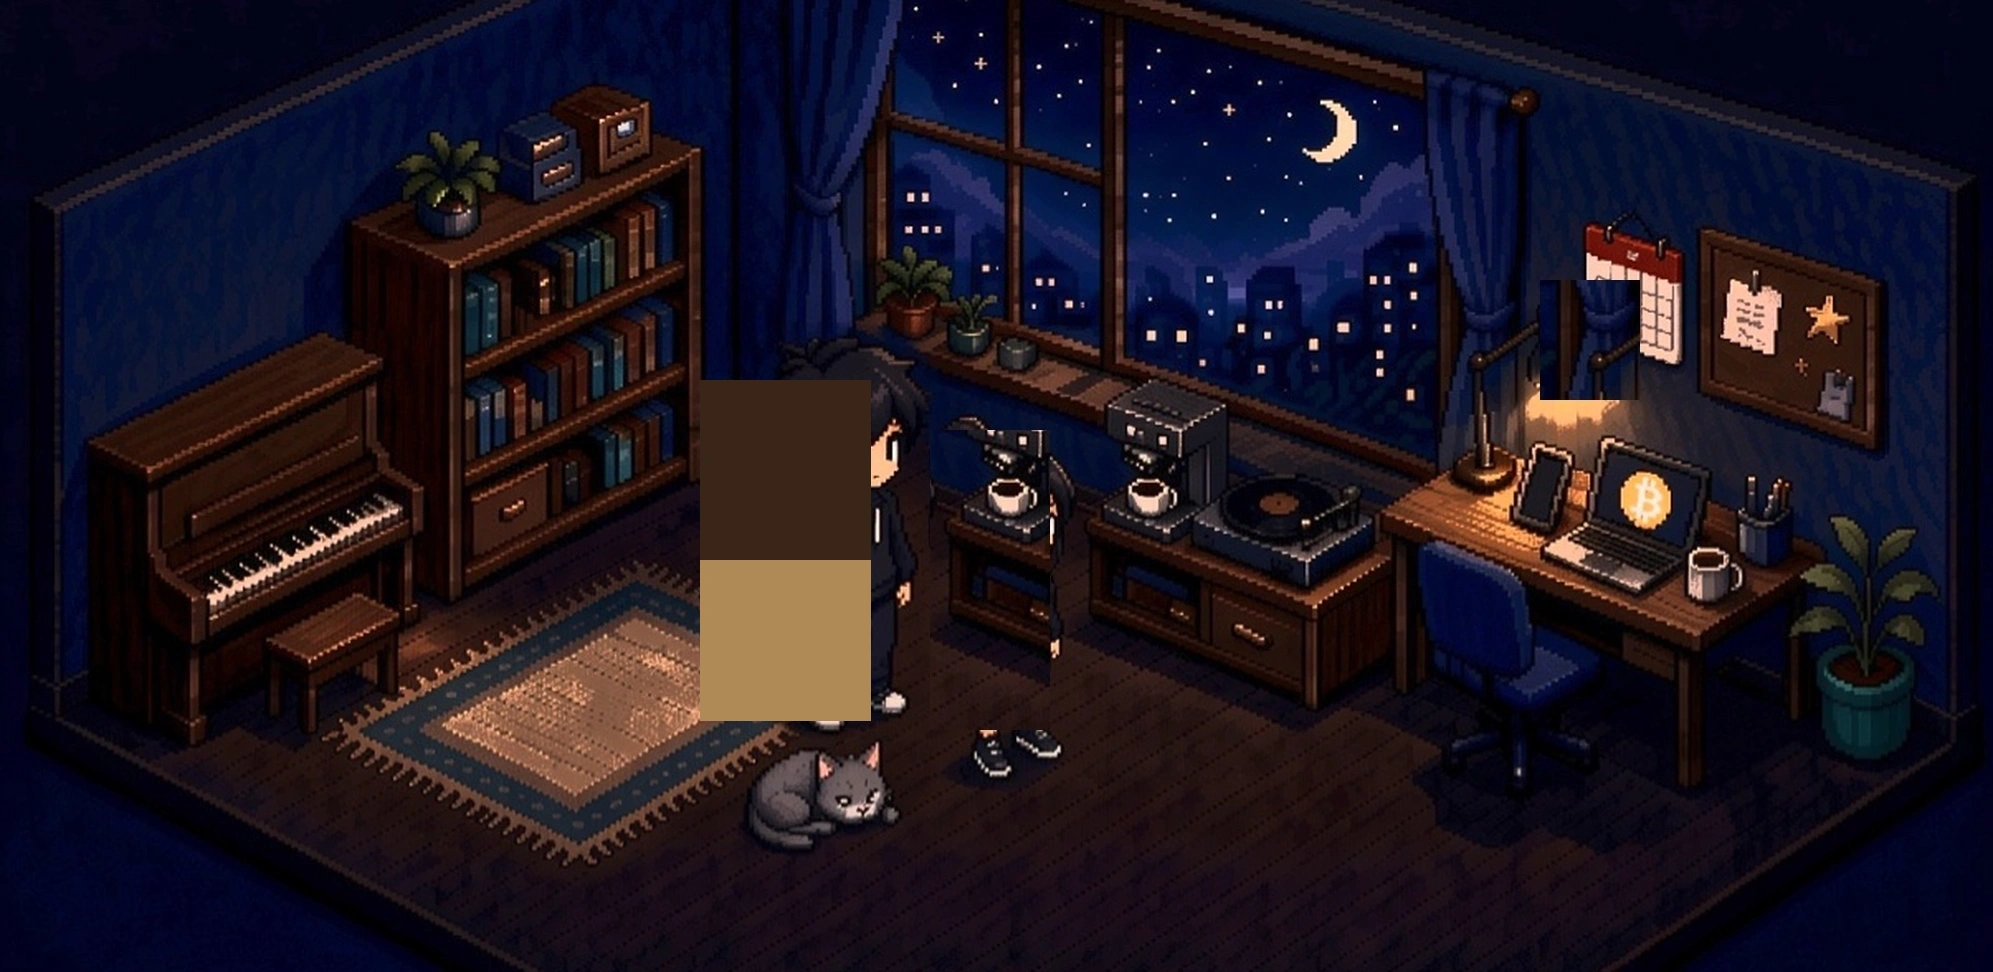
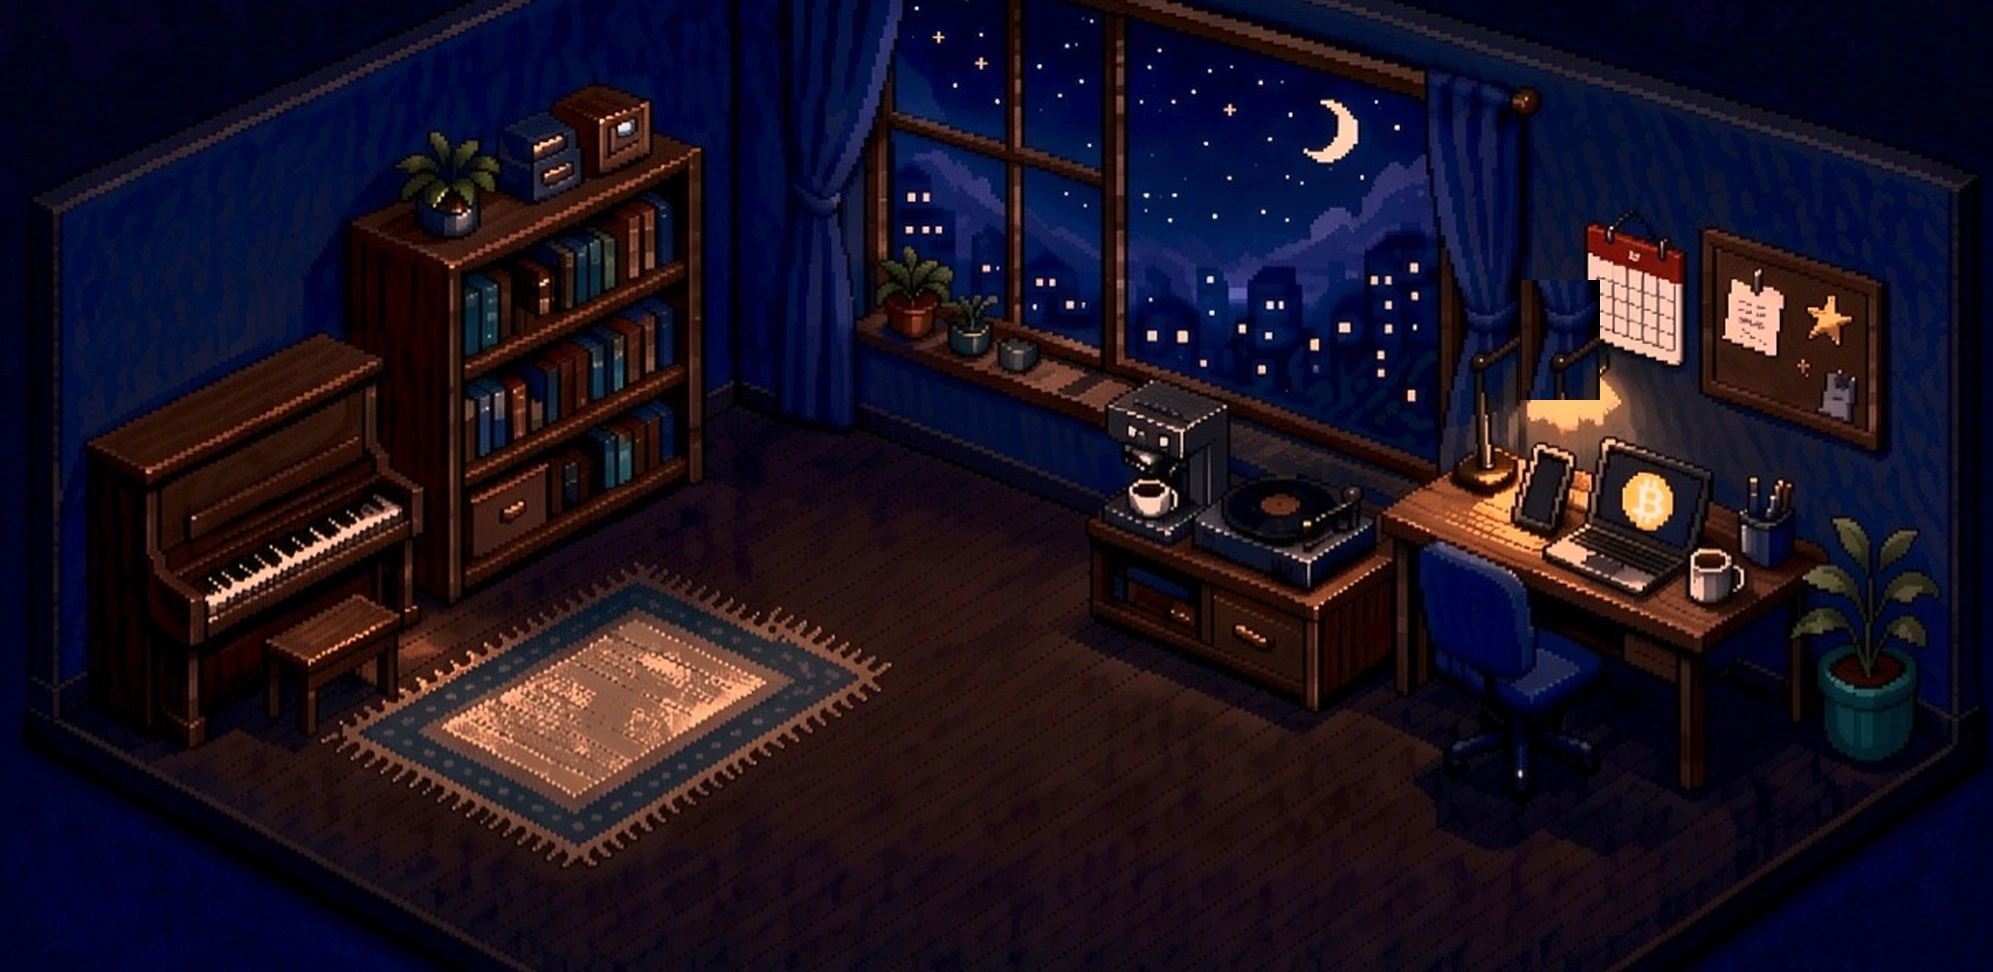
删库重做：新图无人物版

diff --git a/index.html b/index.html
@@ -10,8 +10,6 @@
   #room{width:min(100vw,205.04vh);height:min(100vh,48.77vw);display:block;touch-action:manipulation}
   .tri{animation:triBob 1.6s ease-in-out infinite;cursor:pointer}
   @keyframes triBob{0%,100%{transform:translateY(0)}50%{transform:translateY(-8px)}}
-  .tri.dim{opacity:.15;animation:none}
-  .shadow{fill:rgba(0,0,0,.28)}
   #dialog{position:fixed;left:50%;transform:translateX(-50%);bottom:58px;width:min(94vw,900px);z-index:50;background:#f7efdc;border:3px solid #7a5c3e;border-radius:12px;padding:10px 16px;font-size:16px;color:#4a3826;box-shadow:0 4px 18px rgba(0,0,0,.45);cursor:pointer}
   #dialog .who{font-weight:700;color:#8a5a2b;margin-right:8px}
   #panel{position:fixed;inset:0 0 48px 0;z-index:60;display:none;align-items:center;justify-content:center;background:rgba(5,8,18,.72)}
@@ -47,11 +45,7 @@
     <text id="calM" x="1590" y="310" text-anchor="middle" font-size="24" font-weight="700" fill="#fff">10月</text>
     <text id="calD" x="1590" y="380" text-anchor="middle" font-size="58" font-weight="800" fill="#333">21</text>
   </g>
-  <ellipse id="girlShadow" class="shadow" cx="0" cy="0" rx="34" ry="10"/>
-  <image id="girl" href="assets/girl-idle.png" x="0" y="0" width="84" height="148"/>
-  <ellipse id="boyShadow" class="shadow" cx="0" cy="0" rx="38" ry="11"/>
-  <image id="boy" href="assets/boy-idle.png" x="0" y="0" width="94" height="164"/>
-  <text id="musicNote" x="0" y="0" font-size="46" text-anchor="middle" opacity="0">🎵</text>
+  <text id="musicNote" x="240" y="320" font-size="46" text-anchor="middle" opacity="0">🎵</text>
   <g id="tris"></g>
   <g id="zones" fill="#fff" opacity="0">
     <rect data-id="piano" x="80" y="400" width="320" height="320"/>
@@ -60,13 +54,12 @@
     <rect data-id="cal" x="1530" y="250" width="120" height="182"/>
     <rect data-id="board" x="1690" y="270" width="240" height="220"/>
     <rect data-id="window" x="820" y="40" width="580" height="360"/>
-    <rect data-id="floor" x="0" y="620" width="1993" height="352"/>
   </g>
 </svg>
 </div>
-<div id="dialog"><span class="who">Rae</span><span id="dialogText">点一点房间里的东西，小人会自己走过去。也可以直接点地板走动。</span></div>
+<div id="dialog"><span class="who">Rae</span><span id="dialogText">点一点房间里的东西试试。</span></div>
 <div id="panel"><div id="panelCard"><button id="panelClose">关闭</button><h2 id="panelTitle"></h2><div id="panelBody"></div></div></div>
-<div id="infobar">🎹钢琴听音乐 · 🎵唱片机 · 💻书桌 · 📅日历 · 📌留言板 · 🌙窗户看天气 —— 点三角互动，点地板走动</div>
+<div id="infobar">🎹钢琴听音乐 · 🎵唱片机 · 💻书桌 · 📅日历 · 📌留言板 · 🌙窗户看天气 —— 点三角互动</div>
 <audio id="bgm" src="assets/gymnopedie.mp3" loop preload="auto"></audio>
 <script>
 "use strict";
@@ -80,10 +73,8 @@ $('panel').addEventListener('click',e=>{if(e.target.id==='panel')$('panel').clas
 (function(){const d=new Date();$('calM').textContent=(d.getMonth()+1)+'月';$('calD').textContent=d.getDate()})();
 const TRIS=[['piano',240,380],['record',1240,400],['desk',1630,420],['cal',1590,230],['board',1810,250],['window',1110,10]];
 (function(){const g=$('tris');TRIS.forEach(([id,x,y])=>{el('polygon',{points:`${x},${y} ${x-15},${y-22} ${x+15},${y-22}`,fill:'#3d3d4f',stroke:'#14141f','stroke-width':3,class:'tri'},g).dataset.id=id})})();
-function dimTris(d){document.querySelectorAll('#tris .tri').forEach(t=>t.classList.toggle('dim',d))}
 const bgm=$('bgm');let playing=false;
-function toggleMusic(){playing=!playing;if(playing){bgm.play().catch(()=>{});$('vinyl').classList.add('spin');setMusicNote(boy.x,boy.y-200,true);say('Rae','♪ 萨蒂《Gymnopédie No.1》')}else{bgm.pause();$('vinyl').classList.remove('spin');setMusicNote(0,0,false);say('Rae','音乐停了。')}}
-function setMusicNote(x,y,s){const n=$('musicNote');n.setAttribute('x',x);n.setAttribute('y',y);n.setAttribute('opacity',s?1:0)}
+function toggleMusic(){playing=!playing;if(playing){bgm.play().catch(()=>{});$('vinyl').classList.add('spin');$('musicNote').setAttribute('opacity',1);say('Rae','♪ 萨蒂《Gymnopédie No.1》')}else{bgm.pause();$('vinyl').classList.remove('spin');$('musicNote').setAttribute('opacity',0);say('Rae','音乐停了。')}}
 let weather={temp:19,desc:'多云',hi:22,lo:15,hum:80,ok:false};
 const WMO={0:'晴',1:'晴间多云',2:'多云',3:'阴',45:'雾',48:'雾',51:'毛毛雨',53:'毛毛雨',55:'毛毛雨',61:'小雨',63:'中雨',65:'大雨',71:'小雪',73:'中雪',75:'大雪',80:'阵雨',81:'阵雨',82:'暴雨',95:'雷阵雨',96:'雷阵雨',99:'雷阵雨'};
 fetch('https://api.open-meteo.com/v1/forecast?latitude=30.2741&longitude=120.1551&current=temperature_2m,relative_humidity_2m,weather_code&daily=temperature_2m_max,temperature_2m_min&timezone=Asia%2FShanghai').then(r=>r.json()).then(d=>{const c=d.current.weather_code;weather={temp:Math.round(d.current.temperature_2m),desc:WMO[c]||'多云',hi:Math.round(d.daily.temperature_2m_max[0]),lo:Math.round(d.daily.temperature_2m_min[0]),hum:Math.round(d.current.relative_humidity_2m),ok:true}}).catch(()=>{});
@@ -93,19 +84,18 @@ function updateWeatherPanel(){const d=new Date(),w='日一二三四五六'[d.get
 let notes=JSON.parse(localStorage.getItem('rae_notes')||'[{"n":"屋主 Rae","t":"欢迎来到我的小房间！"}]');
 function renderNotes(){const l=$('gbList');if(l)l.innerHTML=notes.map(n=>`<p><b>${n.n}:</b> ${n.t}</p>`).join('')}
 function addNote(){const n=$('gbName').value.trim()||'匿名',t=$('gbText').value.trim();if(!t)return;notes.push({n,t});localStorage.setItem('rae_notes',JSON.stringify(notes));renderNotes();$('gbText').value=''}
-const boy={el:$('boy'),sh:$('boyShadow'),x:850,y:760,w:94,h:164};
-const girl={el:$('girl'),sh:$('girlShadow'),x:770,y:760,w:84,h:148};
-function place(p){p.el.setAttribute('x',p.x-p.w/2);p.el.setAttribute('y',p.y-p.h);p.sh.setAttribute('cx',p.x);p.sh.setAttribute('cy',p.y+6)}
-place(boy);place(girl);
-let girlTarget=null,walking=false;
-const STAND={piano:[240,680],record:[1240,700],desk:[1630,740],cal:[1590,680],board:[1810,650],window:[1110,600]};
-function walkTo(tx,ty,done){if(walking)return;walking=true;dimTris(true);girlTarget={x:tx-85,y:ty};const speed=300;let last=performance.now();function step(t){const dt=Math.min(50,t-last)/1000;last=t;const dx=tx-boy.x,dy=ty-boy.y,dist=Math.hypot(dx,dy);if(dist<10){walking=false;dimTris(false);boy.el.style.transform='';place(boy);walkGirl();if(done)done();return}boy.x+=dx/dist*speed*dt;boy.y+=dy/dist*speed*dt;const flip=dx<0?'scaleX(-1) ':'';const bobY=Math.abs(Math.sin(t/150))*10;const tilt=Math.sin(t/300)*4;boy.el.style.transform=`${flip}translateY(${-bobY}px) rotate(${tilt}deg)`;boy.el.style.transformBox='fill-box';boy.el.style.transformOrigin='50% 100%';place(boy);requestAnimationFrame(step)}requestAnimationFrame(step)}
-function walkGirl(){if(!girlTarget)return;const tx=girlTarget.x,ty=girlTarget.y,speed=260;let last=performance.now();function step(t){const dt=Math.min(50,t-last)/1000;last=t;const dx=tx-girl.x,dy=ty-girl.y,d=Math.hypot(dx,dy);if(d<12){girl.el.style.transform='';place(girl);return}girl.x+=dx/d*speed*dt;girl.y+=dy/d*speed*dt;const flip=dx<0?'scaleX(-1) ':'';const bobY=Math.abs(Math.sin(t/150))*8;girl.el.style.transform=`${flip}translateY(${-bobY}px)`;girl.el.style.transformBox='fill-box';girl.el.style.transformOrigin='50% 100%';place(girl);requestAnimationFrame(step)}requestAnimationFrame(step)}
-document.querySelectorAll('#zones rect').forEach(z=>{z.style.cursor='pointer';z.style.pointerEvents='all';z.addEventListener('click',e=>{const id=z.dataset.id;if(id==='floor'){const pt=svgPoint(e);walkTo(pt.x,Math.min(880,Math.max(640,pt.y)),null);say('Rae','走过去看看。');return}const[tx,ty]=STAND[id];walkTo(tx,ty,()=>{if(id==='piano')toggleMusic();else{let[t,h]=PANELS[id];if(id==='cal')h=updateCalPanel();if(id==='window')h=updateWeatherPanel();openPanel(t,h);if(id==='board')renderNotes();say('Rae',{record:'黑胶的味道。',desk:'我的书桌。',board:'看看留言。',window:'窗外是杭州。',cal:'今天的日子。'}[id]||'')}})})});
-document.querySelectorAll('#tris .tri').forEach(tr=>{tr.style.pointerEvents='all';tr.addEventListener('click',()=>{const id=tr.dataset.id;const[tx,ty]=STAND[id];walkTo(tx,ty,()=>{if(id==='piano')toggleMusic();else{let[t,h]=PANELS[id];if(id==='cal')h=updateCalPanel();if(id==='window')h=updateWeatherPanel();openPanel(t,h);if(id==='board')renderNotes()}})})});
-function svgPoint(e){const svg=$('room'),pt=svg.createSVGPoint();pt.x=e.clientX;pt.y=e.clientY;return pt.matrixTransform(svg.getScreenCTM().inverse())}
+function trigger(id){
+  if(id==='piano'){toggleMusic();return}
+  let[t,h]=PANELS[id];
+  if(id==='cal')h=updateCalPanel();
+  if(id==='window')h=updateWeatherPanel();
+  openPanel(t,h);
+  if(id==='board')renderNotes();
+  say('Rae',{record:'黑胶的味道。',desk:'我的书桌。',board:'看看留言。',window:'窗外是杭州。',cal:'今天的日子。'}[id]||'');
+}
+document.querySelectorAll('#zones rect').forEach(z=>{z.style.cursor='pointer';z.style.pointerEvents='all';z.addEventListener('click',()=>trigger(z.dataset.id))});
+document.querySelectorAll('#tris .tri').forEach(tr=>{tr.style.pointerEvents='all';tr.addEventListener('click',()=>trigger(tr.dataset.id))});
 $('dialog').onclick=()=>$('panel').classList.remove('open');
-place(boy);place(girl);
 </script>
 </body>
 </html>
